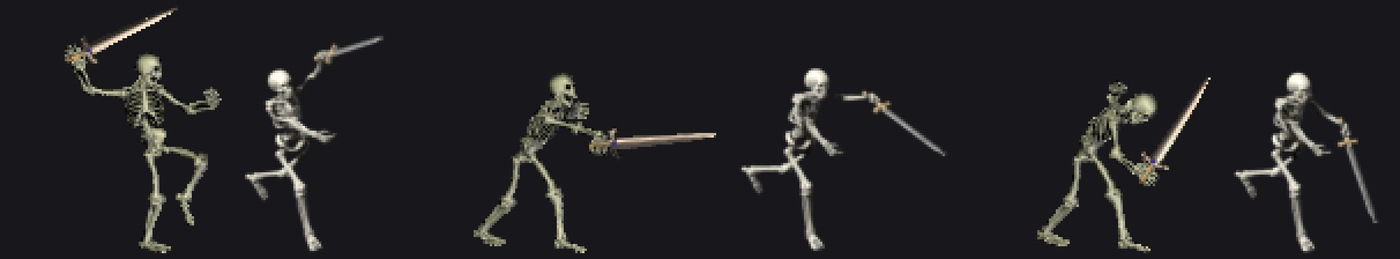
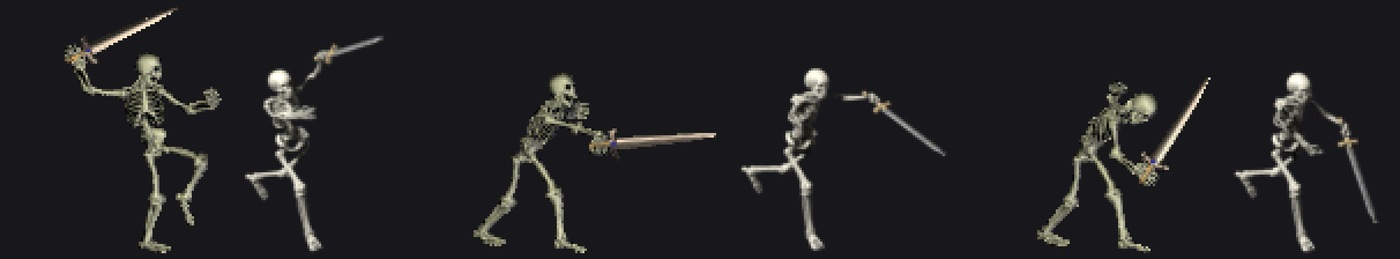
Add the arm counterswing section, and refresh the sprite figures

Changed region(s): [[0.5529, 0.3707, 0.6143, 0.6178], [0.1843, 0.3707, 0.2457, 0.556], [0.9214, 0.4633, 0.9521, 0.6178]]

diff --git a/content/posts/what-holds-the-weapon.md b/content/posts/what-holds-the-weapon.md
@@ -116,6 +116,36 @@ The resting guard sits at 0.4 with the blade crossing the shins, which is where
 the original holds it. The old stance left it hanging off the hip on the far
 side from the direction the creature faces.
 
+## The arms were not trading places
+
+A body swinging a weapon puts the weapon hand back and the free hand forward on
+the wind-up, then trades them on the strike. Measured against the hips:
+
+| `ATTACK_FRONT` | rest | wind-up | strike |
+|---|---|---|---|
+| weapon hand | +0.29 | +0.03 | +0.42 |
+| free hand, before | +0.33 | +0.33 | +0.33 |
+| free hand, after | +0.33 | +0.39 | −0.04 |
+
+The weapon hand was already doing its job — drawing back to +0.03, driving
+through to +0.42. The free hand sat at +0.33 in every frame of every attack,
+because the keys never named it, so it stayed in the base stance while
+everything else moved.
+
+<figure>
+  <img src="/images/vcmi/arm-counterswing.jpg" alt="Wind-up and strike, showing the two hands trading places">
+  <figcaption>Wind-up and strike. The free hand leads on the left and trails on the right.</figcaption>
+</figure>
+
+The free arm takes the same sign convention as the weapon arm: negative X on the
+upper arm carries the hand forward, +0.46 at −30° against −0.21 at +60°. With
+the counterswing the free hand leads the weapon hand by 0.30 to 0.46 at the
+wind-up and trails it by 0.21 to 0.52 at the strike, in all three attacks.
+
+`ATTACK_UP` needed more than the other two. An upward strike does not carry the
+weapon hand far forward, so at +30 the two hands still sat at the same depth;
++48 separates them.
+
 ## The poses were the wrong shape
 
 With the sword working, the frames could finally be compared to the original as
